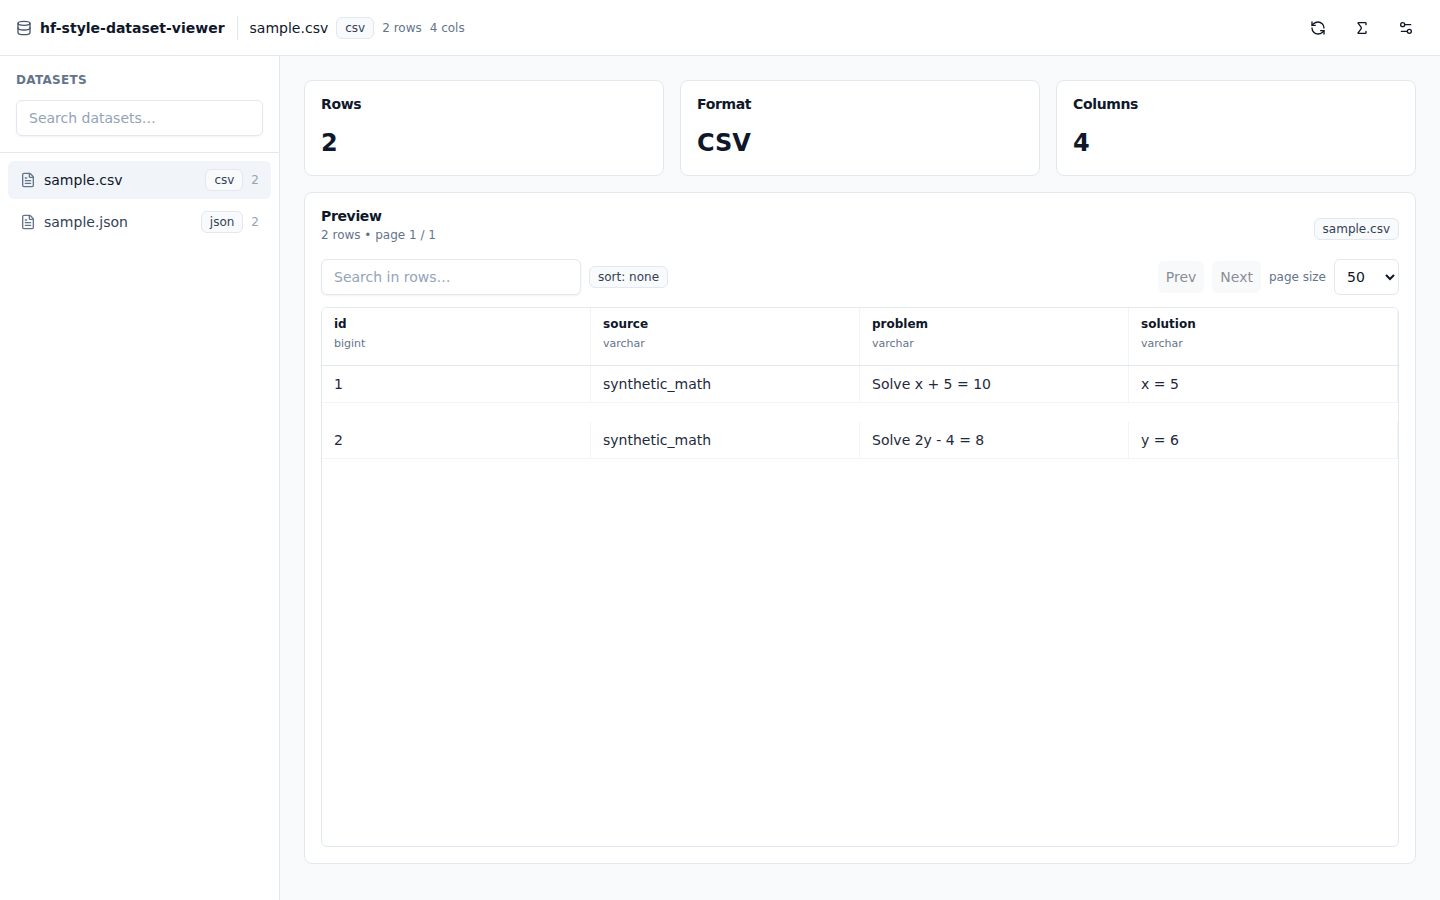
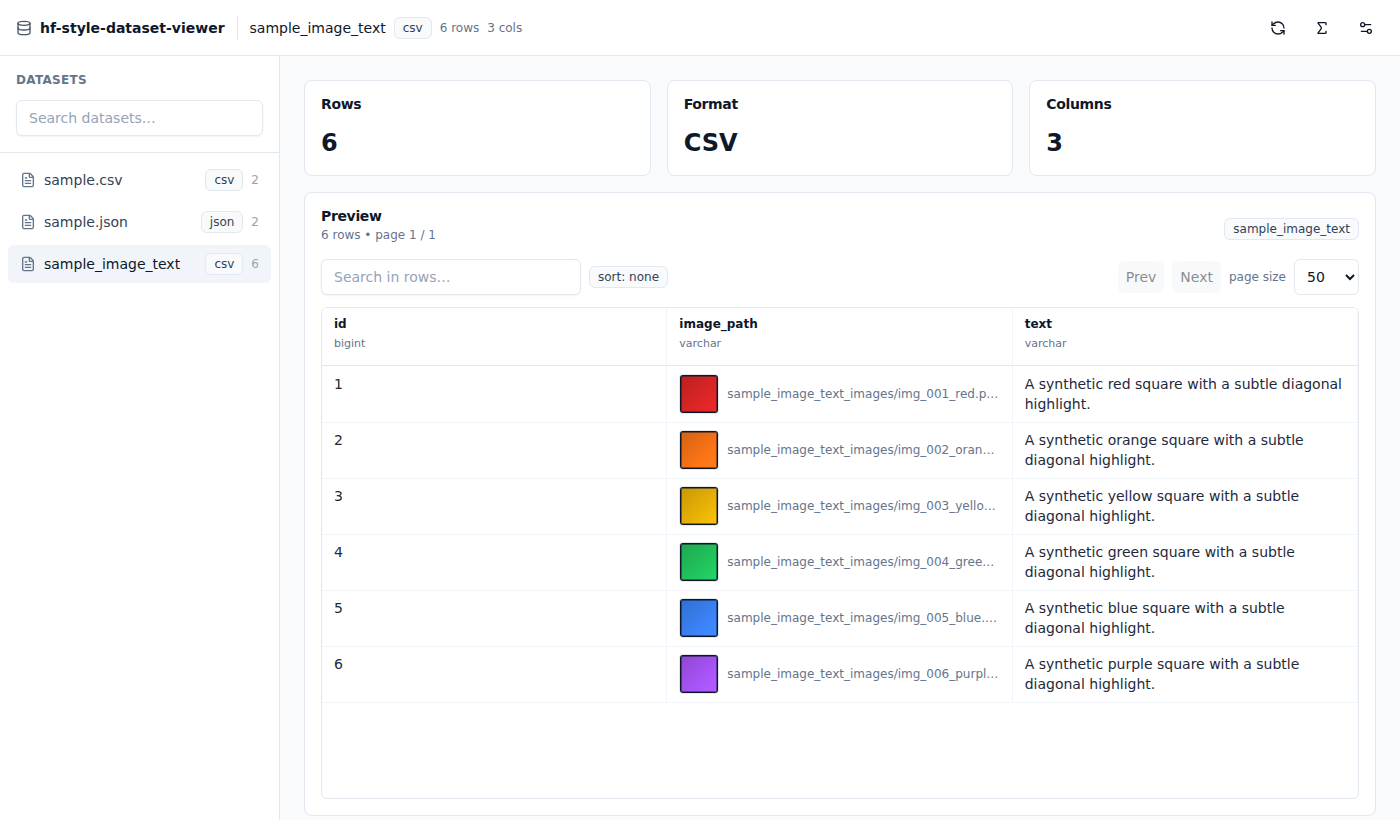
feat: add image-text sample dataset and docs

diff --git a/frontend/src/components/viewer/table-viewer.tsx b/frontend/src/components/viewer/table-viewer.tsx
@@ -75,7 +75,7 @@ function PreviewCell({ datasetName, value }: { datasetName: string; value: unkno
         href={assetUrl}
         target="_blank"
         rel="noreferrer"
-        className="block space-y-1"
+        className="flex min-w-0 items-center gap-2"
         title={value}
       >
         <img
@@ -83,9 +83,9 @@ function PreviewCell({ datasetName, value }: { datasetName: string; value: unkno
           alt={value}
           loading="lazy"
           decoding="async"
-          className="max-h-36 w-auto max-w-full rounded border border-slate-200 bg-white"
+          className="h-10 w-10 shrink-0 rounded border border-slate-200 bg-white object-cover"
         />
-        <div className="text-[11px] text-slate-500">{value}</div>
+        <div className="min-w-0 truncate text-xs text-slate-500">{value}</div>
       </a>
     )
   }
@@ -167,7 +167,7 @@ export function TableViewer({ datasetName }: { datasetName: string }) {
   const rowVirtualizer = useVirtualizer({
     count: rows.length,
     getScrollElement: () => parentRef.current,
-    estimateSize: () => 72,
+    estimateSize: () => 56,
     overscan: 10,
   })
 
@@ -283,8 +283,6 @@ export function TableViewer({ datasetName }: { datasetName: string }) {
               return (
                 <div
                   key={row.id}
-                  ref={rowVirtualizer.measureElement}
-                  data-index={virtualRow.index}
                   className="grid border-b border-slate-100 hover:bg-slate-50"
                   style={{
                     gridTemplateColumns,

diff --git a/README.md b/README.md
@@ -16,6 +16,7 @@ A local-first dataset explorer inspired by the Hugging Face Dataset Viewer.
 - Fast backend preview with DuckDB
 - Table viewer with sticky header + horizontal scroll
 - Server-side pagination, sorting, and global search
+- Image thumbnails for `*.png/*.jpg/*.webp` path columns (e.g. `image_path`)
 - Row virtualization for smooth scrolling
 - Dataset statistics endpoint (missing/unique/numeric summaries)
 
@@ -54,6 +55,8 @@ Drop files into `./datasets`:
 - `*.parquet`
 
 Sample datasets are included in `datasets/`.
+
+Image-text datasets are supported by adding a column with image paths (for example `image_path`) that point to image files under `./datasets` (including subfolders). The UI will render thumbnails in the table preview.
 
 ### 2) Start the backend
 
